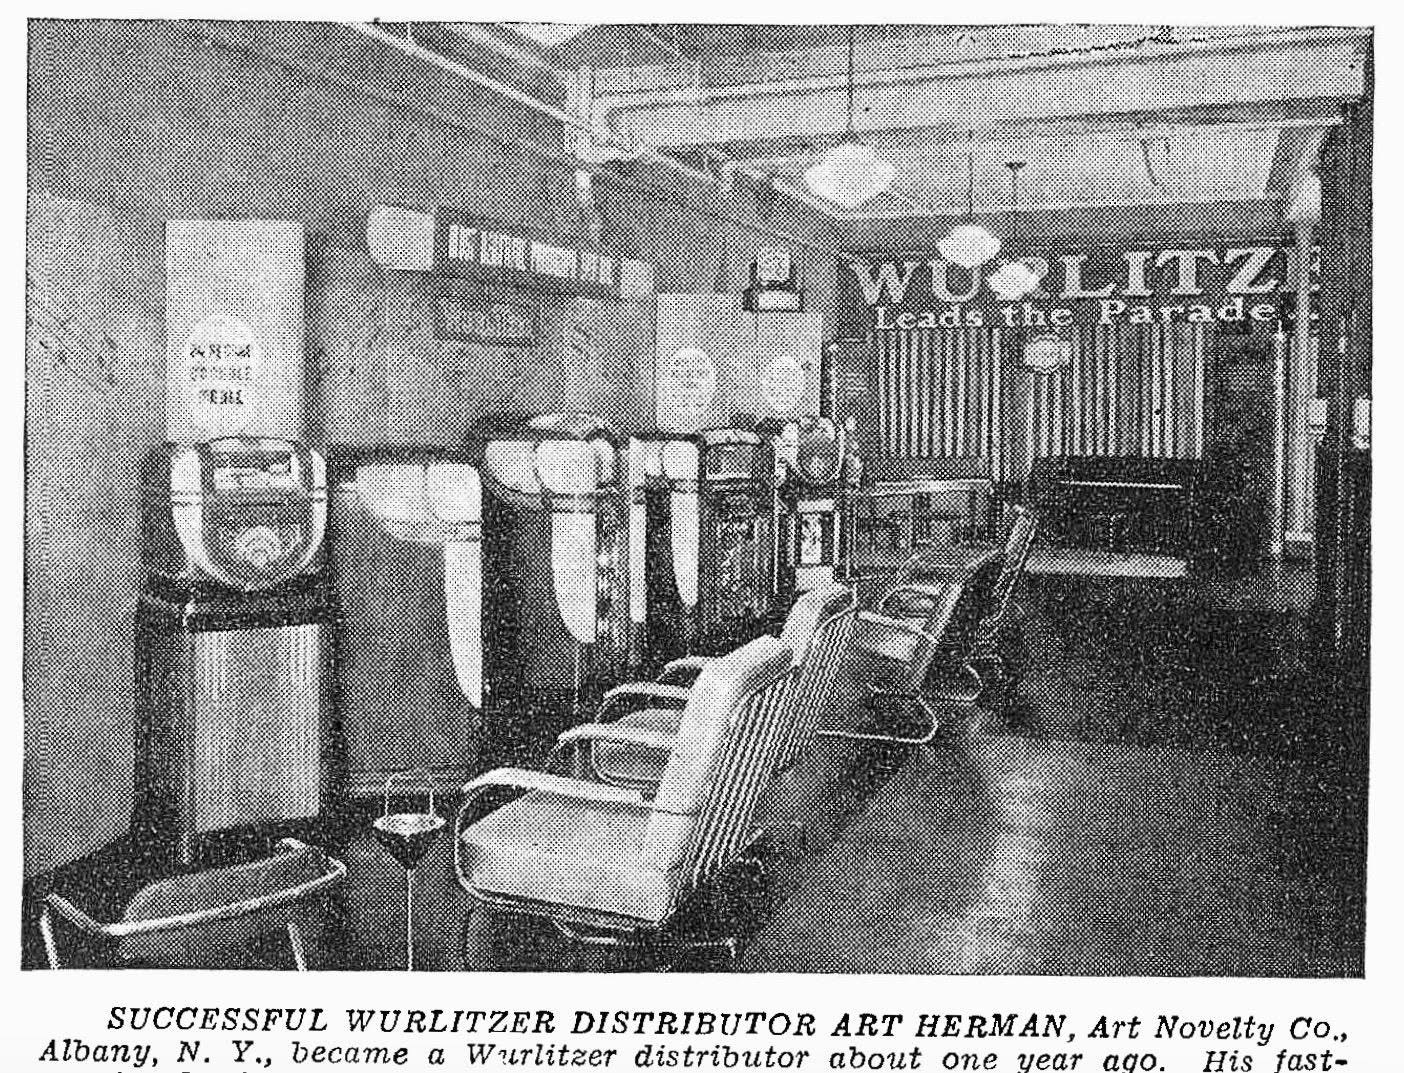
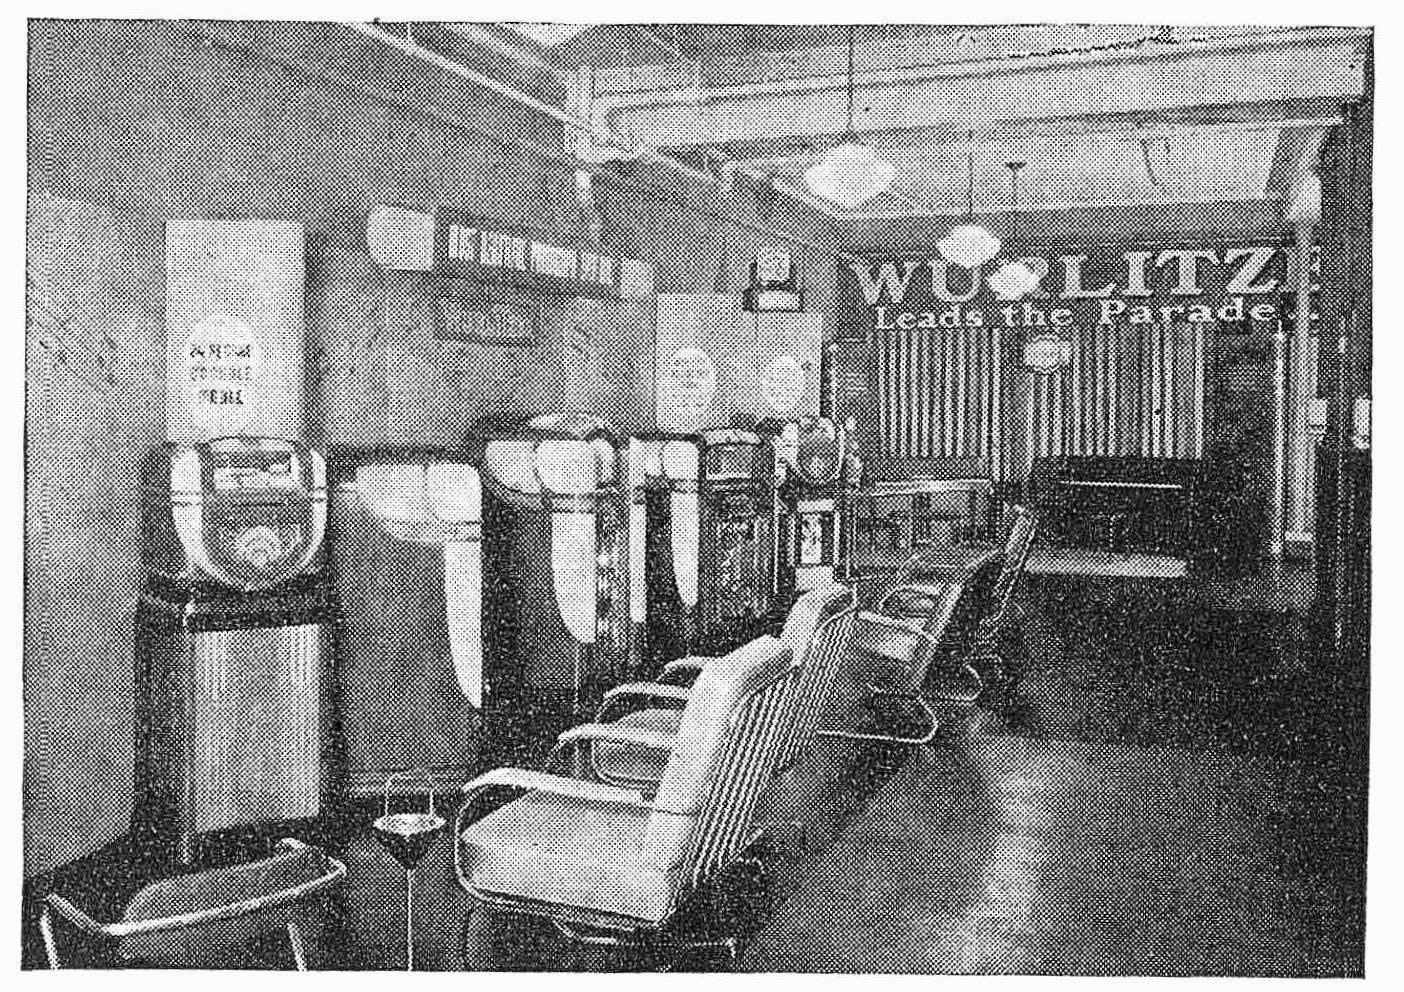
Add more Wurlitzer 81 historic images

diff --git a/_posts/2026-10-05-Wurlitzer-81.md b/_posts/2026-10-05-Wurlitzer-81.md
@@ -243,14 +243,32 @@ The 81 next to a mechanical calculator.
 
 ![Historical Photo](/public/2026-10-05/photo.jpg){:.shadow}{:.center}{: width="535" height="329"}{:style="max-width: 90%"}
 
+![Historical Photo](/public/2026-10-05/photo5.jpg){:.shadow}{:.center}{: width="444" height="240"}{:style="max-width: 90%"}
+
 ![Historical Photo](/public/2026-10-05/photo2.jpg){:.shadow}{:.center}{: width="695" height="535"}{:style="max-width: 90%"}
 
-![Historical Photo](/public/2026-10-05/photo3.jpg){:.shadow}{:.center}{: width="1404" height="1073"}{:style="max-width: 90%"}
+![Historical Photo](/public/2026-10-05/photo6.jpg){:.shadow}{:.center}{: width="443" height="223"}{:style="max-width: 90%"}
+
+![Historical Photo](/public/2026-10-05/photo3.jpg){:.shadow}{:.center}{: width="1404" height="992"}{:style="max-width: 90%"}
+
+![Historical Photo](/public/2026-10-05/photo7.jpg){:.shadow}{:.center}{: width="438" height="227"}{:style="max-width: 90%"}
 
 ![Historical Photo](/public/2026-10-05/photo4.jpg){:.shadow}{:.center}{: width="852" height="490"}{:style="max-width: 90%"}
 
 At the Wurlitzer factory.
 {: style="text-align: center;"}
+
+![Historical Photo](/public/2026-10-05/photo8.jpg){:.shadow}{:.center}{: width="442" height="220"}{:style="max-width: 90%"}
+
+![Historical Photo](/public/2026-10-05/photo9.jpg){:.shadow}{:.center}{: width="446" height="238"}{:style="max-width: 90%"}
+
+![Historical Photo](/public/2026-10-05/photo12.jpg){:.shadow}{:.center}{: width="603" height="280"}{:style="max-width: 90%"}
+
+![Historical Photo](/public/2026-10-05/photo10.jpg){:.shadow}{:.center}{: width="575" height="311"}{:style="max-width: 90%"}
+
+![Historical Photo](/public/2026-10-05/photo11.jpg){:.shadow}{:.center}{: width="582" height="321"}{:style="max-width: 90%"}
+
+![Historical Photo](/public/2026-10-05/photo13.jpg){:.shadow}{:.center}{: width="2048" height="1617"}{:style="max-width: 90%"}
 
 ## More Advertisements
 
